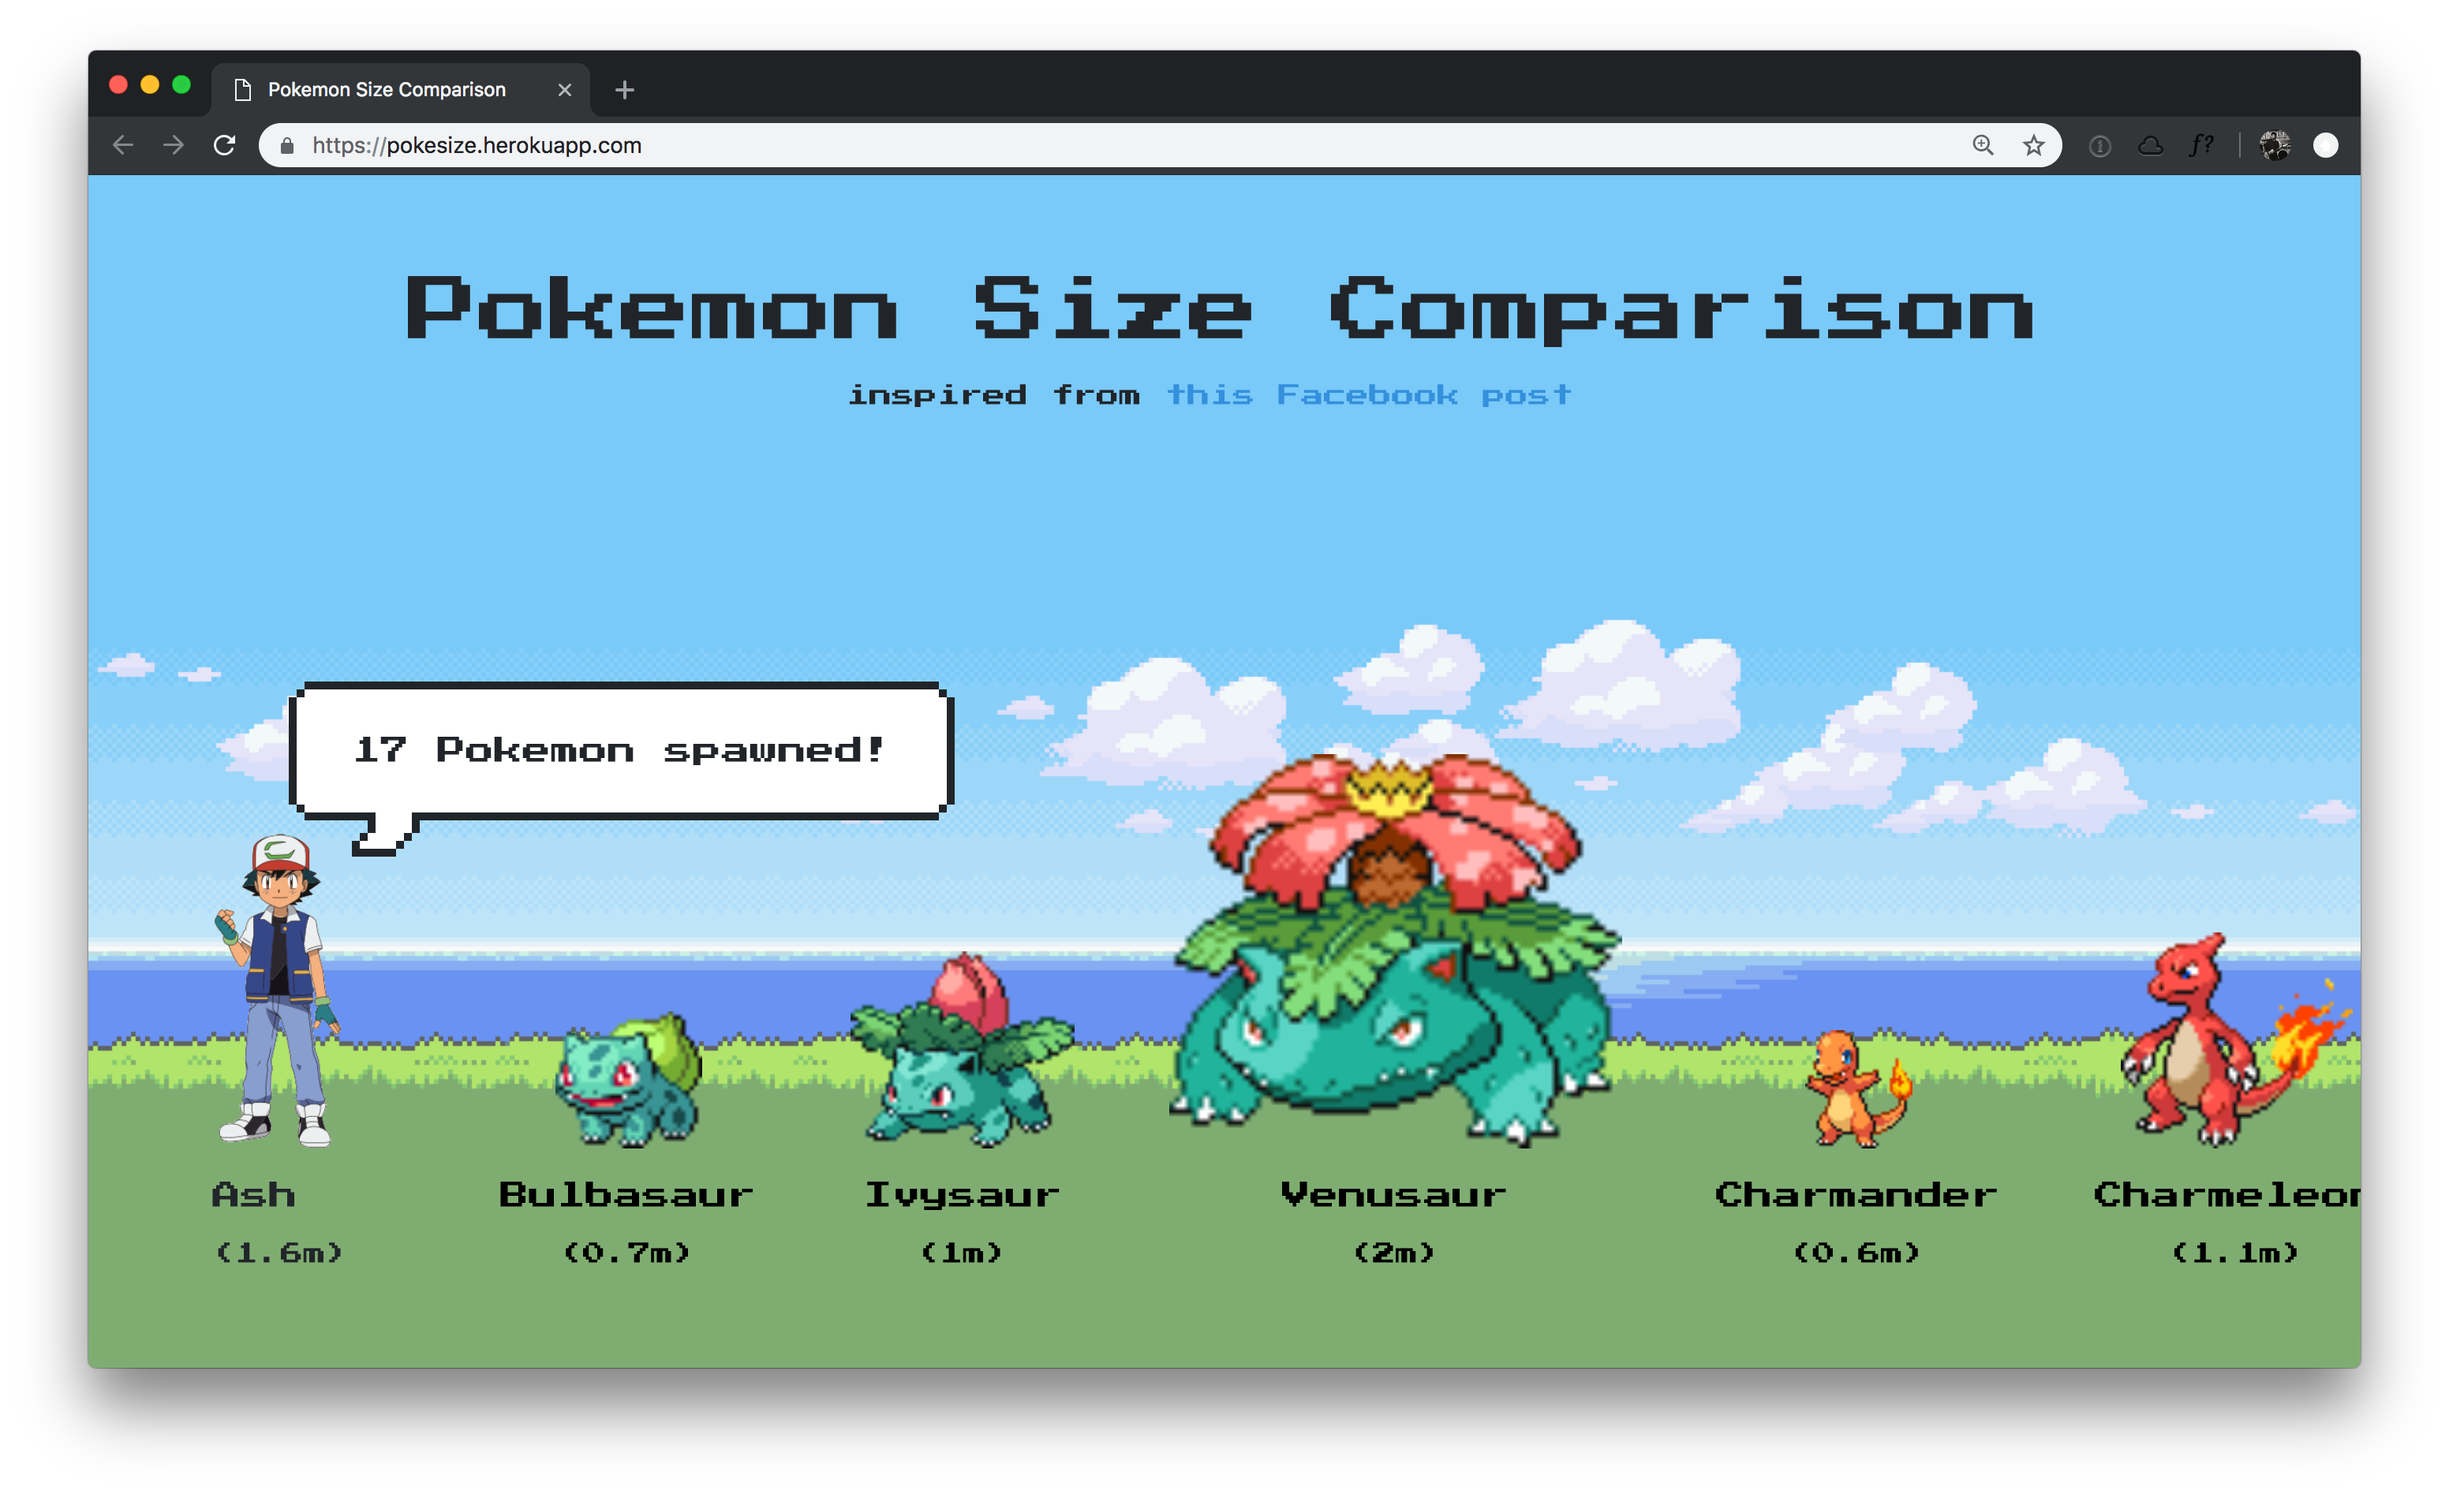
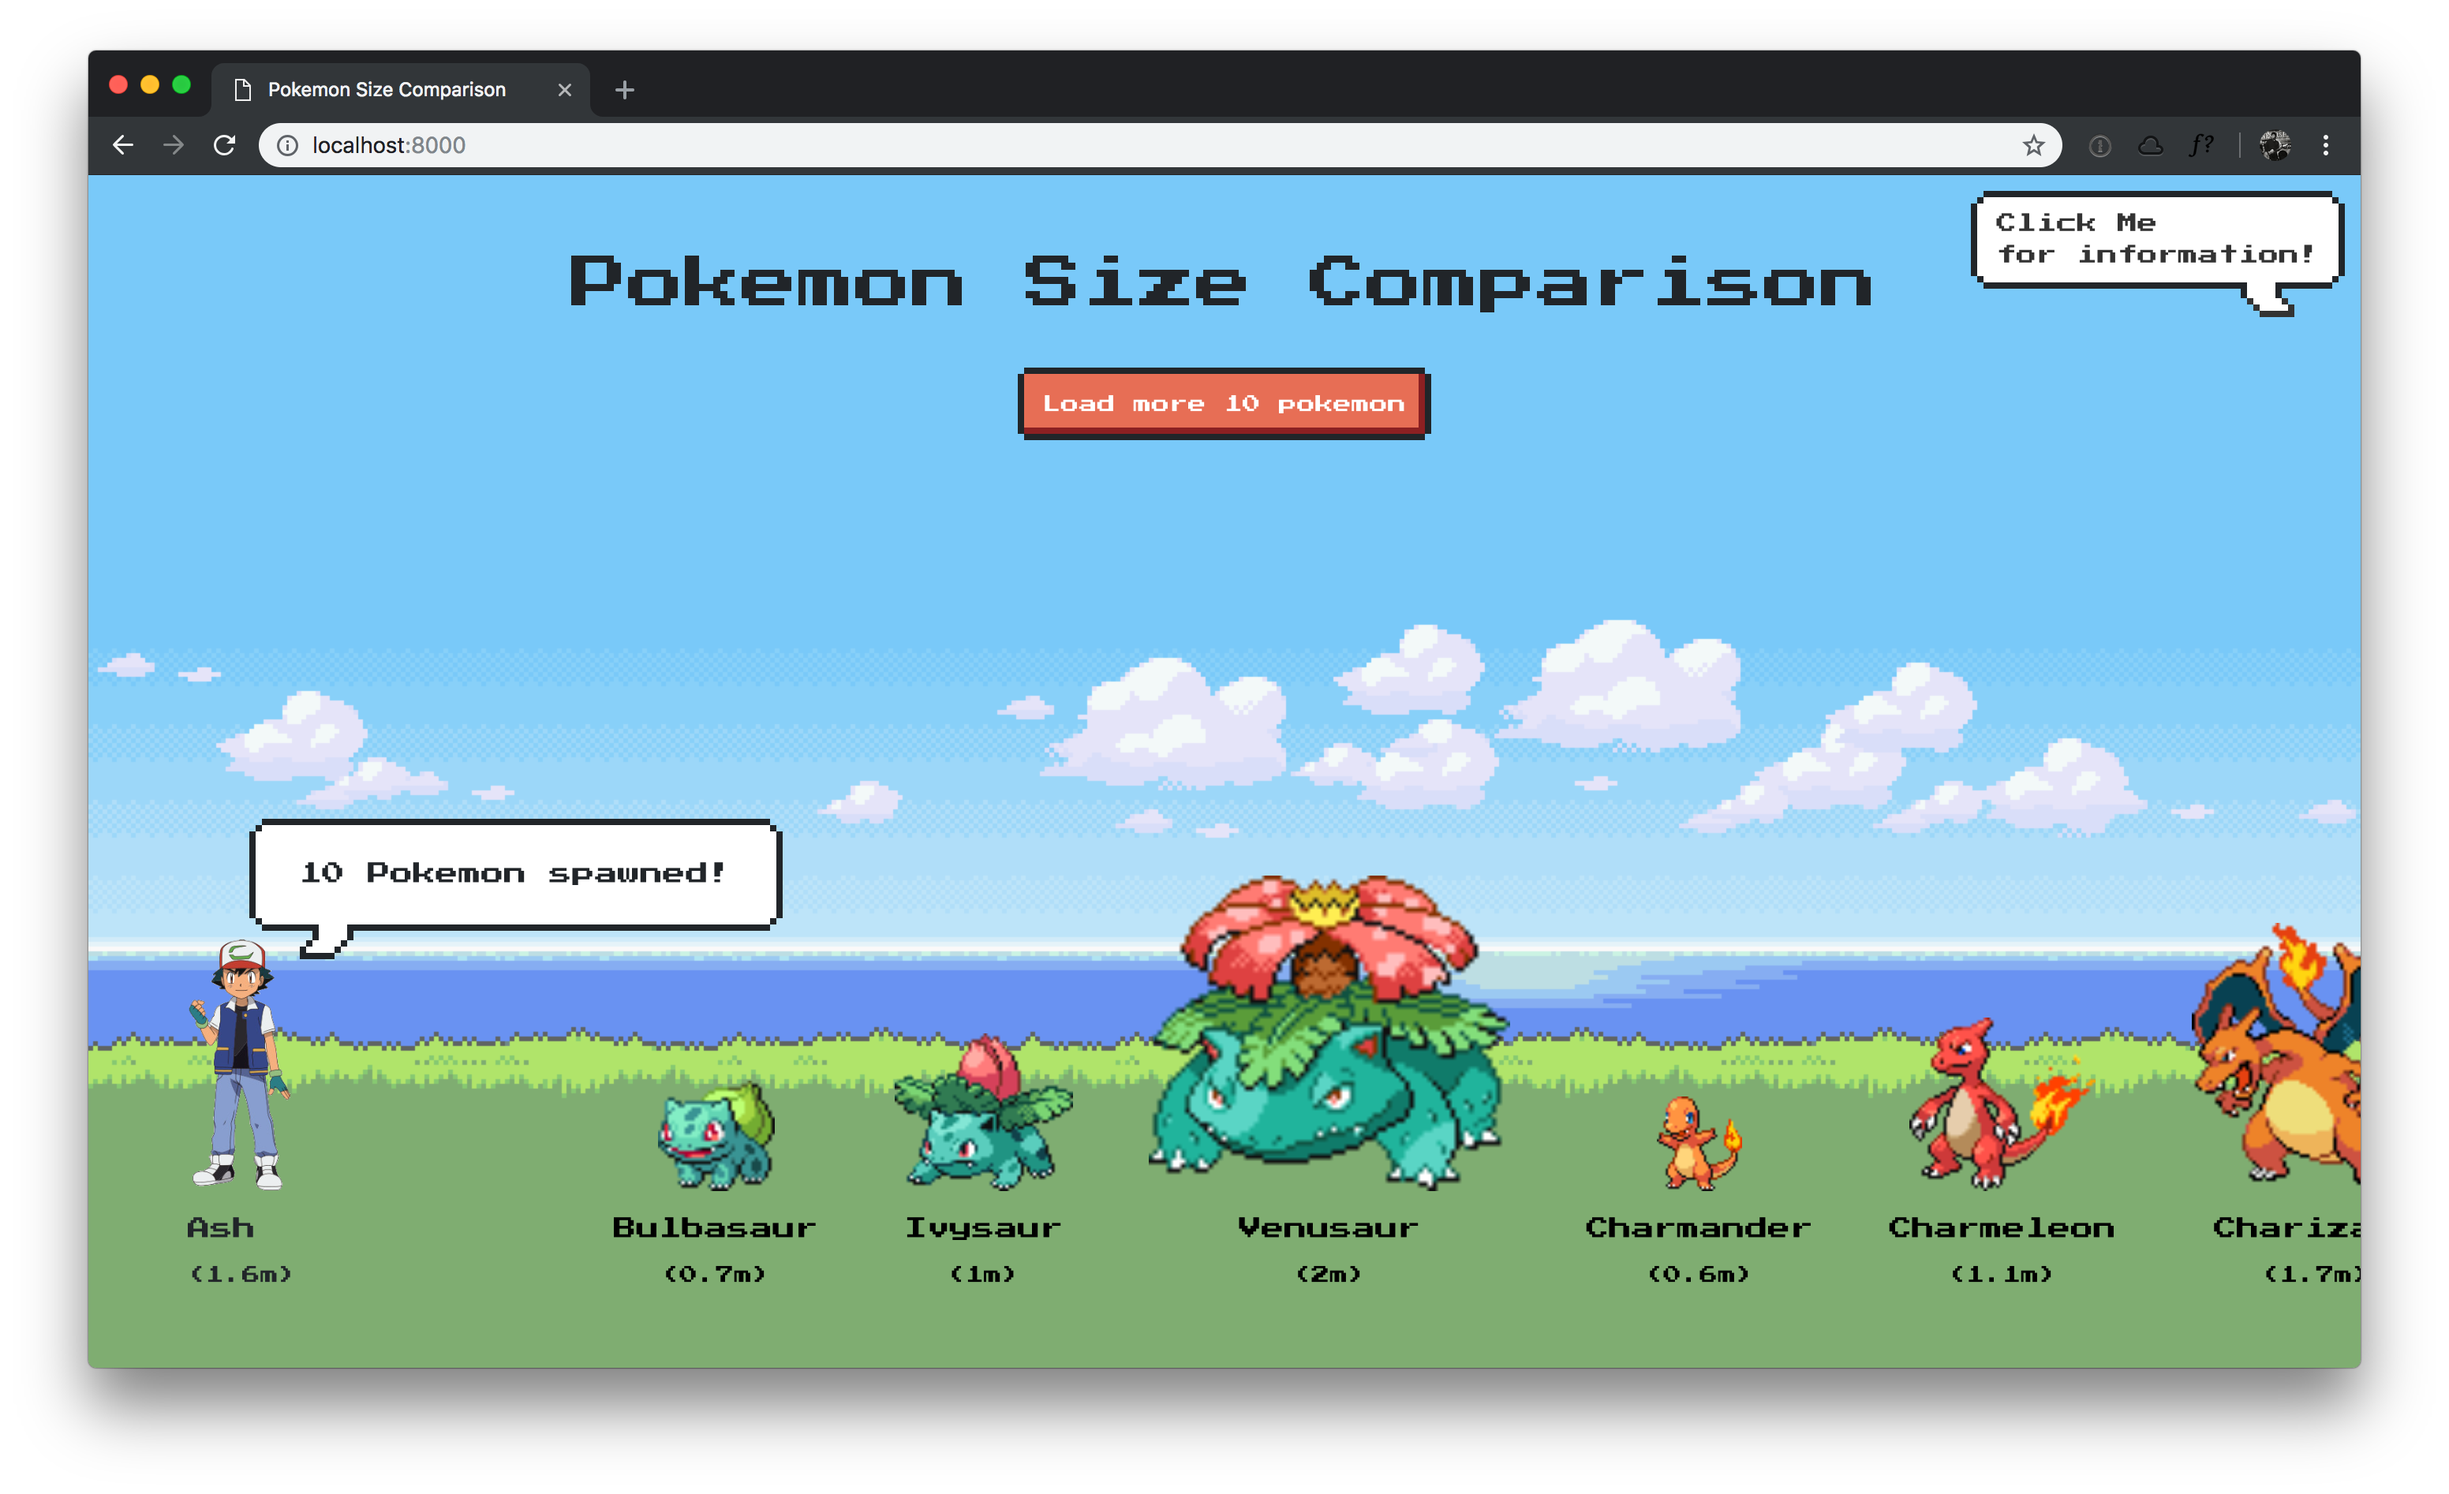
edit readme and update screenshot

diff --git a/resources/js/components/ExampleComponent.vue b/resources/js/components/ExampleComponent.vue
@@ -66,7 +66,8 @@
 							<li>This project was built on Laravel API with Vue</li>
 							<li>This project was inspired by <a target="_blank" href="https://web.facebook.com/BlackOkumura/videos/1265385833603495/">this Facebook post</a> when I scroll my facebook timeline last week :))</li>
 							<li>Since original PokeAPI having problems on CORS, this project using mirrored verison of PokeAPI <a href="pokeapi.salestock.net/api/v2/" target="_blank">(http:pokeapi.salestock.net)</a></li>
-							<li>Thanks to <a href="https://www.npmjs.com/package/jimp">Jimp</a>. this library is very useful to crop empty space from pokemon image sprites resulted from PokeAPI, because it has different scaling with each other pokemon until it cropped</li>
+							<li>Thanks to <a target="_blank" href="https://www.npmjs.com/package/jimp">Jimp</a>. this library is very useful to crop empty space from pokemon image sprites resulted from PokeAPI, because it has different scaling with each other pokemon until it cropped</li>
+							<li>Thanks to <a target="_blank" href="https://nostalgic-css.github.io/NES.css/">NES.css</a> for awesome UI library that reminds us to old-school Game Boy Advance GUI :D</li>
 							<li>Github Repo: <a href="https://github.com/ypxio/pokesize">https://github.com/ypxio/pokesize</a></li>
 						</ul>
 					</div>
